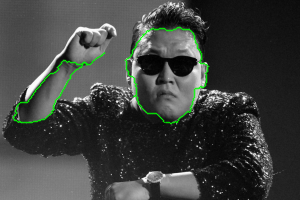
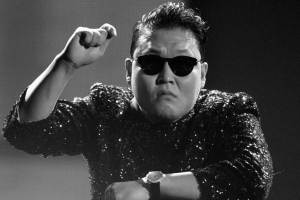
Added examples

diff --git a/Uebungsblatt_06/code/given/sheet06.py b/Uebungsblatt_06/code/given/sheet06.py
@@ -7,9 +7,7 @@ import math
 import numpy as np
 
 
-# ------------------------------------------------------------
 # Hilfsfunktionen
-# ------------------------------------------------------------
 
 def compute_gradient_magnitude(img):
     """Berechnet Gradientenbetrag (Sobel) + speichert Visualisierung."""
@@ -119,9 +117,7 @@ def mask_from_paths(shape, paths):
     return mask
 
 
-# ------------------------------------------------------------
 # GUI – Mouse Callback
-# ------------------------------------------------------------
 
 click_points = []      # speichert gesetzte Punkte
 paths = []             # speichert alle Pfade
@@ -159,9 +155,7 @@ def mouse_callback(event, x, y, flags, param):
         img_display_global = draw_path(img_display_global, path, color=(0,255,0))
 
 
-# ------------------------------------------------------------
-# Hauptfunktion gemäß Aufgabenstellung
-# ------------------------------------------------------------
+# Hauptfunktion
 
 def exercise1(image_folder=".", input: str = None):
     global grad_global, img_color_global, img_display_global
@@ -196,34 +190,13 @@ def exercise1(image_folder=".", input: str = None):
 
     cv2.destroyAllWindows()
 
-    # ---------------------
-    # Speichern der Ergebnisse
-    # ---------------------
-
-    # erstes Segment extra speichern
-    if paths:
-        first = paths[0]
-        cv2.imwrite("initial_path.png", draw_path(img_color, first))
-
     # Overlay aller Pfade
     overlay = img_color.copy()
     for p in paths:
         overlay = draw_path(overlay, p, color=(0,255,0))
     cv2.imwrite("is_overlay.png", overlay)
 
-    # Maske
-    mask = mask_from_paths(img_gray.shape, paths)
-    cv2.imwrite("is_mask.png", mask)
-
-    print("Gespeicherte Dateien:")
-    print(" - grad_magnitude.png")
-    print(" - initial_path.png")
-    print(" - is_overlay.png")
-    print(" - is_mask.png")
     print("Fertig.")
-
-    # Todo Ihre Lösung
-    #  Achten sie darauf, den Dijkstra Algorithmus wie in der Vorlesung beschrieben (Folien 38ff.) zu implementieren.
     
 def show_image(title, image, info_text=None):
     """
@@ -250,7 +223,7 @@ def show_image(title, image, info_text=None):
     print(f"'{window_title}' wird angezeigt. Drücke eine beliebige Taste im Bildfenster, um fortzufahren...")
     cv2.waitKey(0) # Warte unendlich lange auf eine Taste
 
-# --- Canny-Algorithmus Schritte (AKTUALISIERT mit Parametern) ---
+# --- Canny-Algorithmus Schritte ---
 
 def apply_gaussian(image, kernel_size=(5, 5), sigma=0):
     """Schritt 1: Rauschunterdrückung mit Gauß-Filter"""
@@ -274,7 +247,7 @@ def apply_canny_final(image, low_threshold=100, high_threshold=200):
     """
     return cv2.Canny(image, low_threshold, high_threshold)
 
-# --- Hauptfunktion (AKTUALISIERT mit Parameter-Übergabe) ---
+# --- Hauptfunktion ---
 
 def exercise3(image_folder="."):
     try:
@@ -308,7 +281,7 @@ def exercise3(image_folder="."):
         info_str_2 = f"Sobel Kernel Size={sobel_ksize}"
         show_image("Schritt 2: Gradienten-Magnitude (Sobel)", gradient_magnitude, info_text=info_str_2)
 
-        # --- Schritt 3 & 4: NMS + Hysterese (Das 'echte' Canny-Ergebnis) ---
+        # --- Schritt 3 & 4: NMS + Hysterese ---
         # Definiere die Schwellenwerte (t1 und t2)
         t_low = 100  # t1
         t_high = 200 # t2
